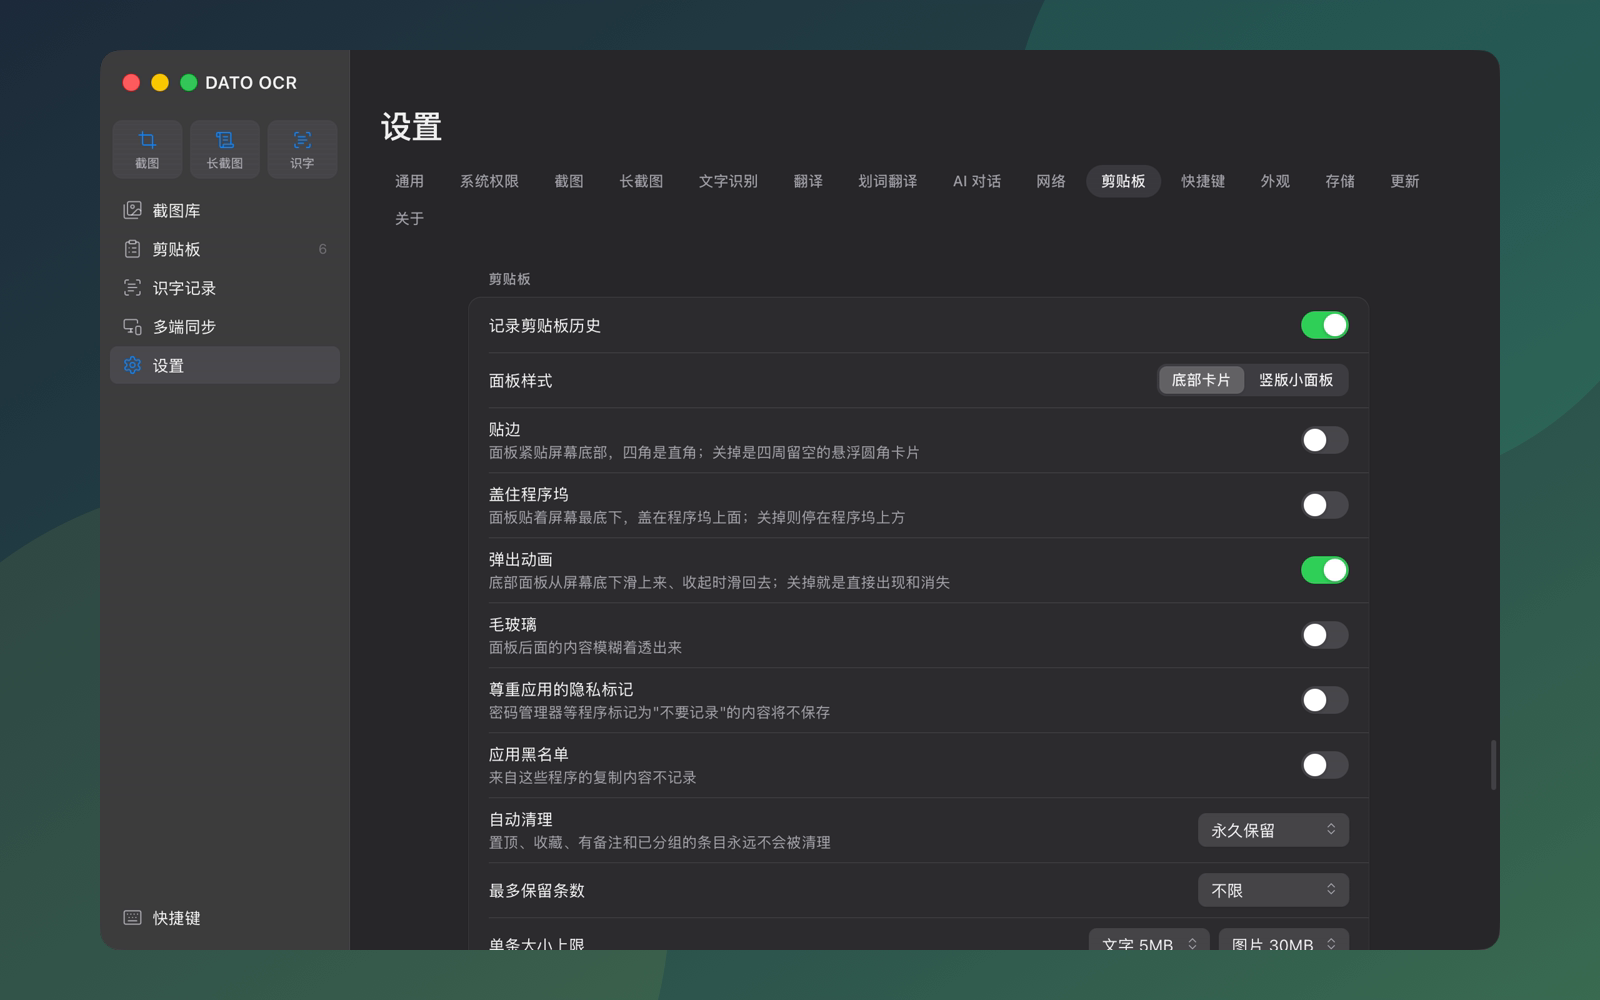
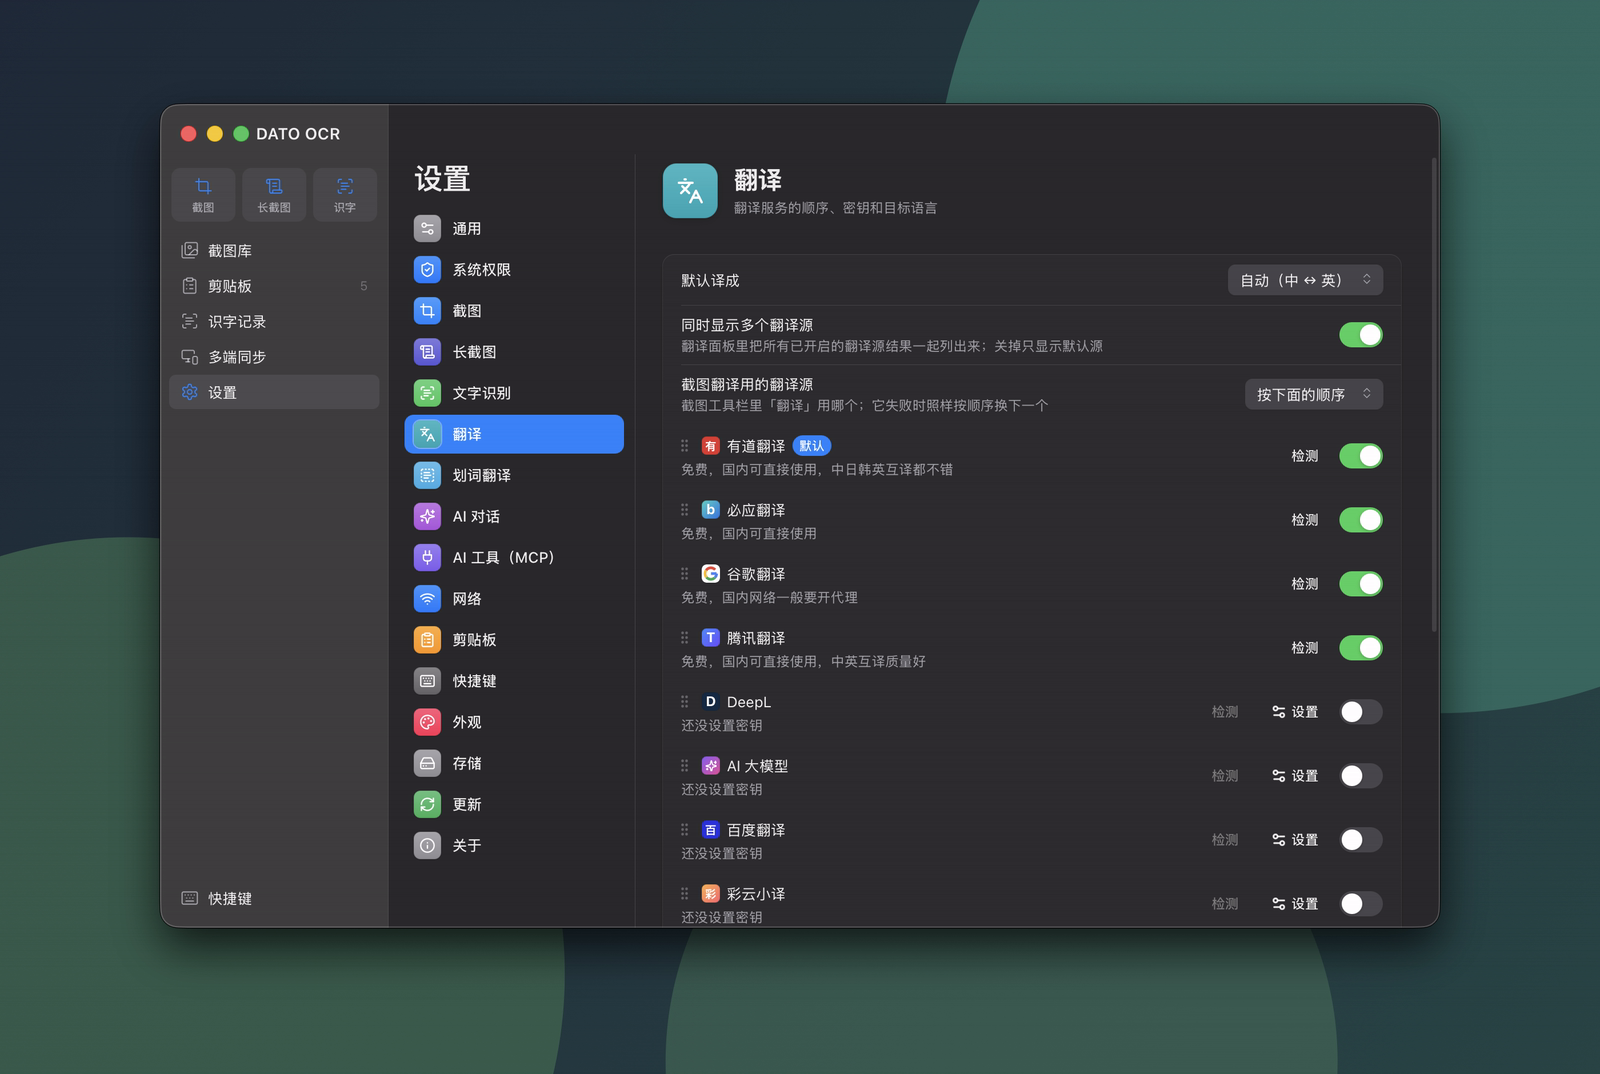
README：按 0.3.3 更新功能介绍，重拍剪贴板、划词翻译、设置页配图（中英文）

diff --git a/README.en.md b/README.en.md
@@ -26,29 +26,34 @@ DATO OCR makes those four steps one tool: press a key to start, and the result i
 - **Annotate**: rectangle, ellipse, arrow, pen, mosaic, text. Everything can be moved and resized afterwards.
 - **Instant capture**: grabs the whole desktop the moment you press the key, including menus and popups that vanish on touch.
 - **Scrolling capture**: scroll the page and it stitches one long image.
-- **Record a GIF**: select an area and record it; it is saved and copied when you finish.
-- **Translate in place**: one key after capturing, and the translation appears right where the original text was.
+- **Record a GIF**: select an area and record it; it is saved, copied, and shows up in the screenshot library.
+- **Translate in place**: one key after capturing, and the translation appears right where the original text was. Mixed-language lines are translated separately, and text already in the target language is left alone. Both the translation and the original can be selected and copied, and you can choose which service to use.
+- **Your toolbar, your way**: drag the buttons into the order you like in Settings, or switch the toolbar to frosted glass.
 
 ## Recognize and translate: results as soon as you select
 
 <p align="center">
-  <img src="docs/readme/translate-en.png" alt="Selection translate popup with several services side by side" width="600">
+  <img src="docs/readme/translate-en.png" alt="Selection translate popup with several services side by side" width="412">
 </p>
 
 - **Text recognition**: select an area and get the text, copied automatically. Fully offline; images are never uploaded.
 - **Selection translate**: select text, press the shortcut or click the floating button, and several services answer side by side.
-- **Free services built in**: Youdao, Bing, Tencent and Google work out of the box. You can also add your own DeepL or LLM key.
-- **Ask AI**: the input box sits under the translation. Ask about the selected text, the recognized text, or the screenshot. You bring your own API address and key.
+- **Free services built in**: Youdao, Bing, Google and Tencent work out of the box. If one is rate-limited or times out, the others go first for the next few minutes.
+- **More services**: DeepL, Baidu, Caiyun, Niutrans, Microsoft Azure, Tencent Cloud and Volcengine with your own key — or add your own AI model, DeepLX, or any web API. Drag to reorder.
+- **Ask AI**: the input box sits under the translation. Ask about the selected text, the recognized text, or the screenshot, and drop or paste in images. Answers stream in as they are written. You bring your own API address and key.
 
 ## Clipboard: everything you copied, still there
 
 <p align="center">
-  <img src="docs/readme/clipboard-en.png" alt="Clipboard panel: text, colors and links colored by type" width="100%">
+  <img src="docs/readme/clipboard-en.png" alt="Clipboard panel: verification code, text, image, color and code cards, tinted by source app" width="100%">
 </p>
 
-- **Colored by type**: text, images, links, colors and files are easy to tell apart.
+- **Easy to tell apart**: every card shows its type and the app it came from; colors, code, links and images each get their own look, and images open in a full-size preview.
 - **Paste on select**: open it with a shortcut, pick with the arrow keys, press Enter, and it lands in the window you were using.
+- **Groups and smart picks**: keep things you reuse in groups. Tap the orb and it suggests what you are likely to paste next, based on what you are doing.
+- **Verification codes, copied for you**: connect your mailbox (QQ, 163, Gmail, iCloud, Proton, or your own server) and codes in new emails go straight to the clipboard. On a Mac, SMS codes forwarded from your iPhone work the same way, and with sync on your other computers get them too.
 - **Sync across devices**: scan a QR code on the same Wi-Fi to copy on the computer and paste on the phone, or sync through a WebDAV drive.
+- **For AI tools**: turn on MCP in Settings and tools like Claude or Cursor can search your clipboard and recognition history, and add items or organize groups for you (you can make it read-only).
 - **Stays on your machine**: history is never uploaded. Auto cleanup and an app blacklist are available.
 
 ## Everything is adjustable
@@ -57,7 +62,7 @@ DATO OCR makes those four steps one tool: press a key to start, and the result i
   <img src="docs/readme/settings-en.png" alt="Settings" width="880">
 </p>
 
-Selection frame color and thickness, panel style, frosted glass, every shortcut, the order of translation services — all in Settings.
+Selection frame color and thickness, toolbar button order, panel style, frosted glass, every shortcut, the order of translation services — all in Settings. When you style the selection translate popup, a full-size preview sits right next to it.
 The interface is available in English and Simplified Chinese and follows your system language by default.
 
 ---
@@ -85,14 +90,16 @@ Get it from the [releases page](https://github.com/Chenfugui69/DATO-OCR/releases
 **macOS (Apple silicon)**: download the `.dmg` and drag DATO OCR into Applications.
 
 - The first launch is blocked by the system: go to System Settings → Privacy & Security and click "Open Anyway".
-- Capturing needs the Screen Recording permission; selection translate and paste-on-select need Accessibility. Settings → Permissions in the app takes you straight there. Restart the app after granting.
+- Capturing needs the Screen Recording permission; selection translate and paste-on-select need Accessibility; reading SMS codes forwarded from your iPhone needs Full Disk Access. Settings → Permissions in the app takes you straight there. Restart the app after granting.
 - The macOS version does not update itself yet; download new versions manually.
 
 ## Privacy
 
 - Text recognition runs on your machine: the bundled offline engine on Windows, the system's own recognizer on macOS.
 - Screenshots, recognition history and clipboard history are stored locally and never uploaded.
-- Translation and AI chat go online and send the content to the service you chose. API keys are stored encrypted on your machine.
+- Translation and AI chat go online and send the content to the service you chose. API keys and mailbox passwords are stored encrypted on your machine.
+- Smart picks are computed on your machine by default. Only if you turn on "Use an AI model for suggestions" are the recognized window text and summaries of recent clips sent to the provider set in AI Chat.
+- The MCP server is off by default, listens only on your own machine, and requires a token.
 
 ---
 
